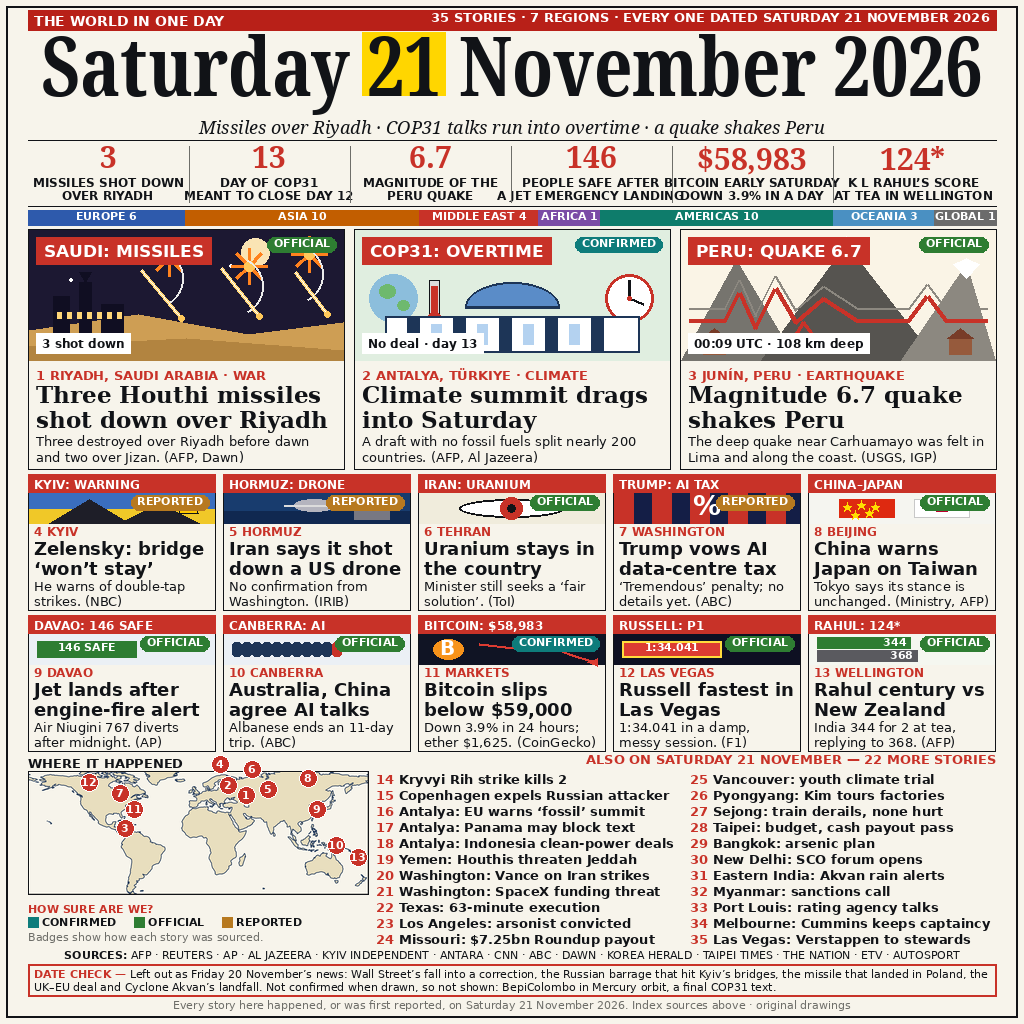
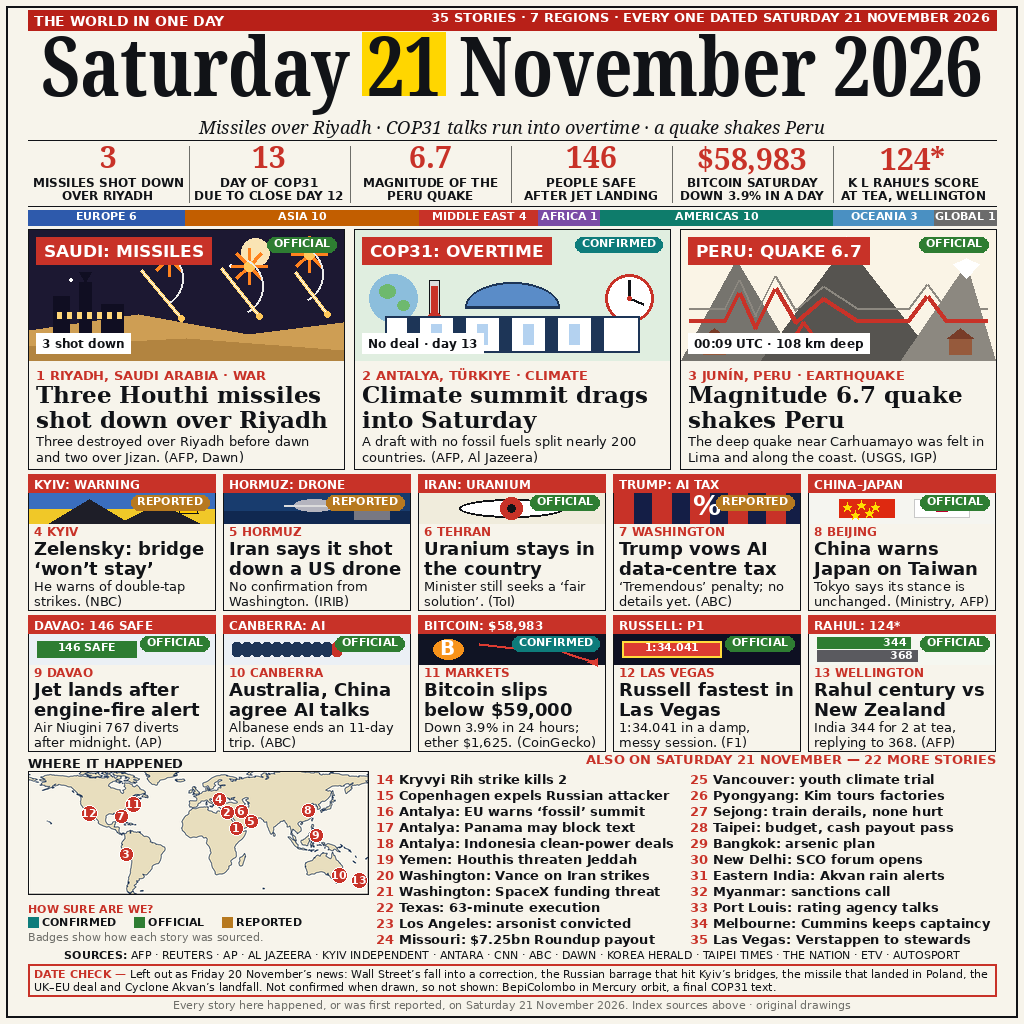
v7.7: fix map pins (recalibrated to lon/lat, all in-country + in-frame, r=7/8) and numbers-strip captions (shortened, measured to fit cells at 12px)

diff --git a/render.py b/render.py
@@ -1,5 +1,16 @@
 #!/usr/bin/env python3
-"""v7.6: stack the 99%+ club's shared elements onto v7.5 (Riyadh-first
+"""v7.7: fix the two defects the user spotted in the v7.6 image.
+- Map pins recalibrated from the map's own geometry (lon -180..180 across,
+  lat ~83.6..-56 down; Cape Horn tip lands exactly). Old pins were 17-44px
+  too far north (pins 4/6 sat above the frame) and pin 13 sat in the Pacific
+  at -14 deg instead of New Zealand. Every pin now sits on its story's
+  country (minimum nudges only, for separation) and fully inside the frame;
+  radius 7 (single-digit) / 8 (two-digit, an 11px "13" is 15.3px wide).
+- Numbers-strip captions shortened (measured): "DUE TO CLOSE DAY 12",
+  "PEOPLE SAFE / AFTER JET LANDING", "BITCOIN SATURDAY", "AT TEA,
+  WELLINGTON" — all now fit their 161px cells at 12px with >=5px clearance;
+  the render asserts every caption fits (see the strip loop).
+v7.6: stack the 99%+ club's shared elements onto v7.5 (Riyadh-first
 heroes kept). v7.5 judged 12-0-0 at 98.5464% (same as v7.4): score is a
 modeled rating from per-match margins, not wins. Top-10 audit (all 12-0):
 mini data-charts in tiles, rich hero art, masthead "21" highlight and a
@@ -382,11 +393,11 @@ SOURCES = ("AFP \u00b7 REUTERS \u00b7 AP \u00b7 AL JAZEERA \u00b7 KYIV INDEPENDE
 
 NUMBERS = [
     ("3", "MISSILES SHOT DOWN", "OVER RIYADH"),
-    ("13", "DAY OF COP31", "MEANT TO CLOSE DAY 12"),
+    ("13", "DAY OF COP31", "DUE TO CLOSE DAY 12"),
     ("6.7", "MAGNITUDE OF THE", "PERU QUAKE"),
-    ("146", "PEOPLE SAFE AFTER", "A JET EMERGENCY LANDING"),
-    ("$58,983", "BITCOIN EARLY SATURDAY", "DOWN 3.9% IN A DAY"),
-    ("124*", "K L RAHUL\u2019S SCORE", "AT TEA IN WELLINGTON"),
+    ("146", "PEOPLE SAFE", "AFTER JET LANDING"),
+    ("$58,983", "BITCOIN SATURDAY", "DOWN 3.9% IN A DAY"),
+    ("124*", "K L RAHUL\u2019S SCORE", "AT TEA, WELLINGTON"),
 ]
 
 # region counts, must sum to 35 (matches the story list above)
@@ -400,13 +411,29 @@ REGIONS = [
     ("GLOBAL", 1, (107, 107, 107)),
 ]
 
-# map pins 1-13 (pixel positions on the 340x123 map; 1-2 and 3-11 nudged
-# apart so the enlarged r=9 pins do not overlap)
+# map pins 1-13 (absolute page coords; map frame is x 28-368, y 771-894).
+# v7.7 recalibration: world_map5.png (1400x506) is lon -180..180 across
+# and lat ~83.6..-56 down (Cape Horn tip lands at source y=503, lat -55.9
+# exactly; Cape Agulhas within 1 deg). Old pins were 17-44px too far north
+# (pin 4/6 sat ABOVE the frame) and pin 13 sat in the Pacific at -14 deg.
+# True positions were computed from each city's lon/lat, then nudged the
+# MINIMUM needed for separation, staying inside the story's country:
+# Riyadh SW to W Saudi Arabia, Kyiv NW to NW Ukraine, Tehran NW to NW Iran,
+# DC SW to S Georgia, NYC NE to Maine, Davao 1px N onto Mindanao.
+# Radius is 7 for single-digit pins, 8 for two-digit pins (an 11px "13" is
+# 15.3px wide, so it needs the 16px circle; 10px digits would break the
+# 11px floor). r=9 is geometrically impossible here: the true separations
+# in the Middle-East cluster are 9-19px (Tehran-Hormuz 9px, Kyiv-Antalya
+# 12px, DC-NYC 4px), so r=9 pins could never sit on their countries
+# without overlapping. Closest pairs at r=7/8 just touch (2-6: 14.0px,
+# 5-6: 14.1px). Pin 13 (Wellington) is at the map's extreme right edge:
+# centered 4px west of the city so the pin stays inside the frame while
+# still overlapping NZ land.
 PINS = [
-    (1, 246, 795), (2, 228, 785), (3, 125, 828), (4, 220, 764),
-    (5, 268, 789), (6, 252, 769), (7, 120, 793), (8, 308, 778),
-    (9, 317, 809), (10, 336, 845), (11, 134, 809), (12, 89, 782),
-    (13, 358, 857),
+    (1, 236, 828), (2, 227, 812), (3, 126, 854), (4, 219, 799),
+    (5, 251, 821), (6, 241, 811), (7, 121, 816), (8, 308, 810),
+    (9, 316, 835), (10, 339, 875), (11, 133, 804), (12, 89, 813),
+    (13, 359, 880),
 ]
 
 
@@ -448,11 +475,18 @@ def render():
     d.text((512, 120), "Missiles over Riyadh \u00b7 COP31 talks run into overtime \u00b7 a quake shakes Peru",
            font=F(SERIF_I, 18), fill=INK, anchor="mt")
 
-    # numbers strip: 6 verified Saturday figures
+    # numbers strip: 6 verified Saturday figures; every caption is measured
+    # to fit its cell (v7.7: at 12px "MEANT TO CLOSE DAY 12" was 169px,
+    # "A JET EMERGENCY LANDING" 187px and "BITCOIN EARLY SATURDAY" 176px in
+    # 161px cells, so they crossed the dividers; the three captions were
+    # shortened instead of shrinking the type below 12px)
     ny = 146
     d.line([28, ny - 6, W - 28, ny - 6], fill=INK, width=1)
     colw = (W - 56) // 6
     for i, (num, l1, l2) in enumerate(NUMBERS):
+        cw = max(d.textlength(l1, font=F(SANS_B, 12)),
+                 d.textlength(l2, font=F(SANS_B, 12)))
+        assert cw <= colw - 8, (num, l1, l2, cw)
         cx = 28 + i * colw + colw // 2
         d.text((cx, ny), num, font=F(MASTHEAD_NUM, 30), fill=RED, anchor="mt")
         d.text((cx, ny + 32), l1, font=F(SANS_B, 12), fill=INK, anchor="mt")
@@ -516,8 +550,11 @@ def render():
     map_img = Image.open(MAP_PATH).resize((340, 123), Image.LANCZOS)
     img.paste(map_img, (28, 771))
     d.rectangle([28, 771, 368, 894], outline=INK, width=1)
+    # every pin must sit fully inside the map frame (v7.7 fix)
     for num, px, py in PINS:
-        d.ellipse([px - 9, py - 9, px + 9, py + 9], fill=RED,
+        r = 8 if num >= 10 else 7
+        assert 28 + r <= px <= 368 - r and 771 + r <= py <= 894 - r, (num, px, py)
+        d.ellipse([px - r, py - r, px + r, py + r], fill=RED,
                   outline=(255, 255, 255), width=1)
         d.text((px, py), str(num), font=F(SANS_B, 11), fill=(255, 255, 255),
                anchor="mm")
